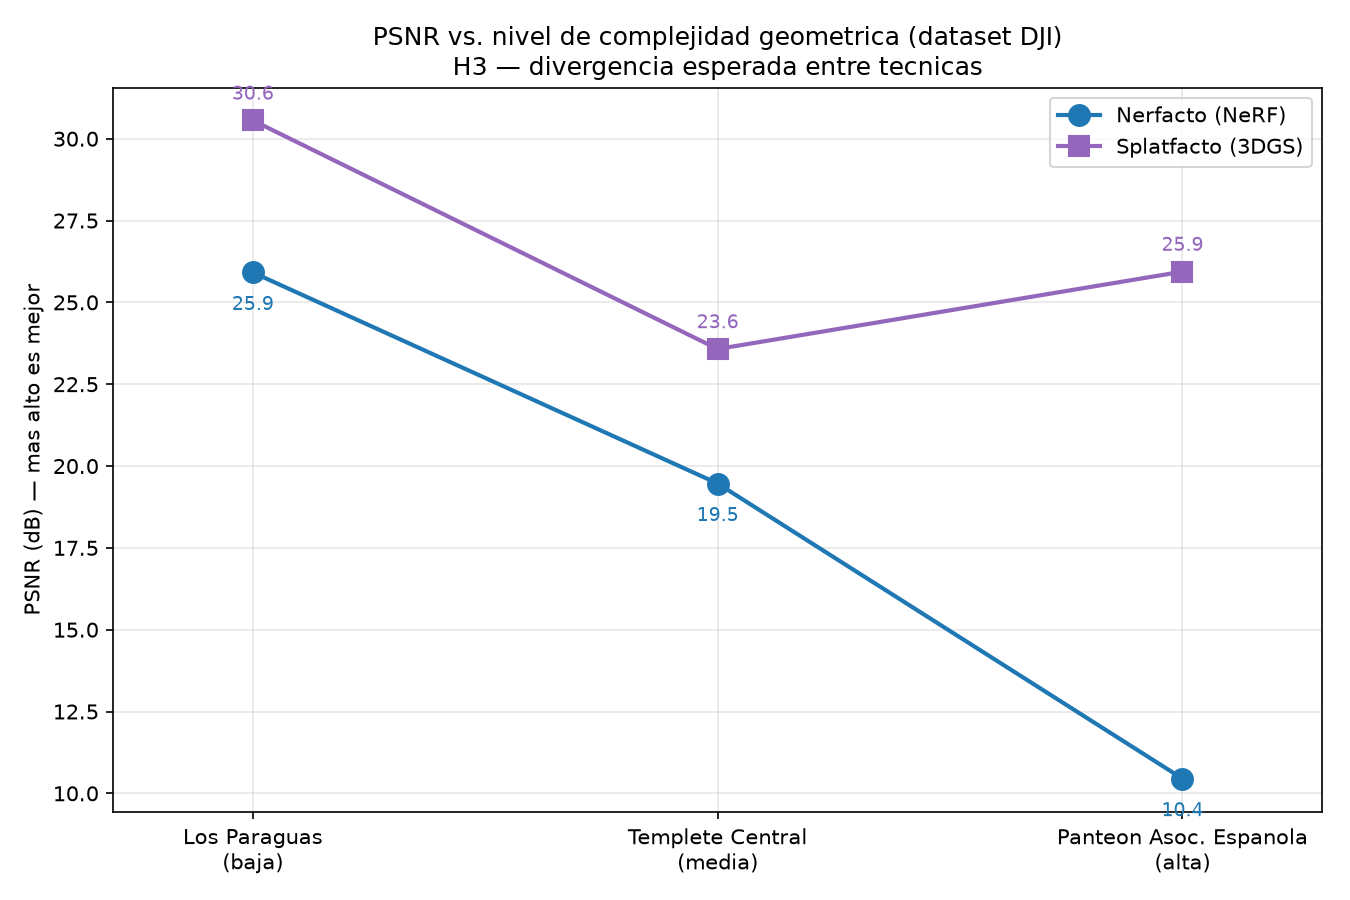
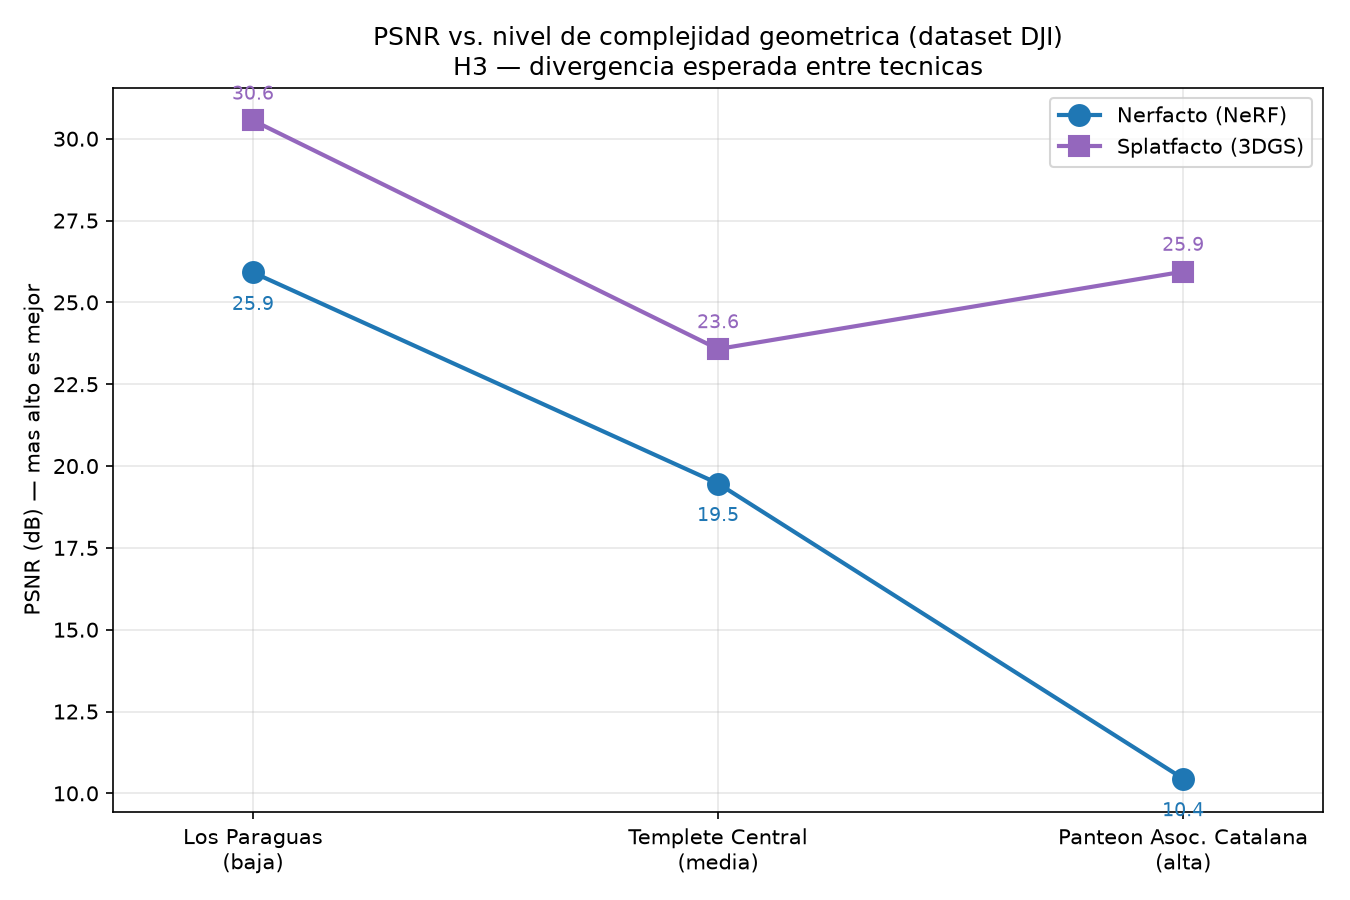
Presentacion: evidencia visual en H2/H3/H4/6.3.4 y assets normalizados
Los graficos solos no dejaban ver que habia pasado. Ahora cada hipotesis
muestra el resultado:

- H2: capturas de los dos preprocesamientos -- fotograma original vs. con las
  personas borradas (YOLOv8-seg + LaMa), y original / mascara / edificio
  aislado -- al lado del grafico de metricas.
- H3: la comparativa Foto/Nerfacto/Splatfacto del Panteon, donde se ve que
  Nerfacto degenera en floaters y Splatfacto sostiene la geometria.
- H4: los dos componentes que RealityScan reconstruyo por separado del mismo
  dataset hibrido y que nunca llegaron a alinearse.
- 6.3.4: los tres modelos del agente de IA, no solo Los Paraguas. Recortados
  al mismo encuadre desde los *_perspectiva.png de 07-modelado/.

Ademas:

- El grafico de H3 decia "Panteon Asoc. Espanola", del nombre viejo del sitio.
  Corregido en build_psnr_vs_complejidad.py y regenerado.
- Los tres wireframes de la slide de casos de estudio no cargaban: pesaban
  entre 2,5 y 5,5 MB a mas de 2000 px. Reducidos a 1000 px (11,2 MB -> 1,9 MB).
- Los 9 gif de la comparativa tenian proporciones distintas y sumaban 59 MB en
  una sola slide. Reexportados todos a 440x248 y 8 fps: los recuadros quedan
  del mismo tamano y la carpeta baja de 67 a 42 MB.

diff --git a/06-sitio-web/src/components/Presentation.jsx b/06-sitio-web/src/components/Presentation.jsx
@@ -270,7 +270,15 @@ const SLIDES = [
           </ul>
           <Source>Capítulo 5, secciones 5.3.4 y 5.3.6</Source>
         </div>
-        <div className="pz-split-media">
+        <div className="pz-split-media pz-split-media-apilada">
+          <figure>
+            <img src={`${W}preproc-distractores.jpg`} alt="Fotograma original y fotograma con las personas eliminadas" />
+            <figcaption>1 · Distractores: original arriba, con las personas borradas por YOLOv8-seg + LaMa abajo.</figcaption>
+          </figure>
+          <figure>
+            <img src={`${W}preproc-mascara.jpg`} alt="Fotograma original, máscara de entrenamiento y edificio aislado del fondo" />
+            <figcaption>2 · Fondo: original, máscara de entrenamiento y edificio aislado.</figcaption>
+          </figure>
           <img src={`${A}cap5-masking-psnr-ssim-lpips-raw-vs-masked.png`} alt="PSNR/SSIM/LPIPS raw vs. dataset con máscara" />
         </div>
       </div>
@@ -294,8 +302,12 @@ const SLIDES = [
           </ul>
           <Source>Capítulo 5, sección 5.4</Source>
         </div>
-        <div className="pz-split-media">
+        <div className="pz-split-media pz-split-media-apilada">
           <img src={`${A}cap5-07-psnr-vs-complejidad.png`} alt="PSNR vs. nivel de complejidad geométrica" />
+          <figure>
+            <img src={`${W}panteon-nerf-vs-splat.jpg`} alt="Panteón Asociación Catalana: foto original, render de Nerfacto y render de Splatfacto" />
+            <figcaption>Panteón: foto · Nerfacto · Splatfacto. Nerfacto degenera en floaters; Splatfacto sostiene la geometría.</figcaption>
+          </figure>
         </div>
       </div>
     ),
@@ -319,8 +331,15 @@ const SLIDES = [
           </ul>
           <Source>Capítulo 5, secciones 5.5.2–5.5.6</Source>
         </div>
-        <div className="pz-split-media">
+        <div className="pz-split-media pz-split-media-apilada">
           <img src={`${A}cap5-hybrid-cross-camera-matching-chart.png`} alt="Calidad de matching por tipo de par de dispositivos" />
+          <figure>
+            <div className="pz-par">
+              <img src={`${W}hibrido-componente-a.png`} alt="Primer componente reconstruido del dataset híbrido" />
+              <img src={`${W}hibrido-componente-b.png`} alt="Segundo componente reconstruido del dataset híbrido" />
+            </div>
+            <figcaption>El fallo, a la vista: del mismo dataset híbrido salen dos componentes separados que nunca llegan a alinearse.</figcaption>
+          </figure>
         </div>
       </div>
     ),
@@ -439,8 +458,17 @@ const SLIDES = [
           </ul>
           <Source>Capítulo 6, sección 6.3.4 y Tabla 6.4</Source>
         </div>
-        <div className="pz-split-media">
-          <img src={`${W}paraguas-reconstruccion-ia.png`} alt="Render del modelo reconstruido de Los Paraguas, dos cubiertas sobre columnas" />
+        <div className="pz-split-media pz-split-media-apilada">
+          {[
+            ["paraguas", "Los Paraguas"],
+            ["templete", "Templete Central"],
+            ["panteon", "Panteón Asoc. Catalana"],
+          ].map(([id, nombre]) => (
+            <figure key={id}>
+              <img src={`${W}${id}-reconstruccion-ia.png`} alt={`Modelo reconstruido por el agente de IA: ${nombre}`} />
+              <figcaption>{nombre}</figcaption>
+            </figure>
+          ))}
         </div>
       </div>
     ),

diff --git a/06-sitio-web/src/presentation.css b/06-sitio-web/src/presentation.css
@@ -578,3 +578,68 @@
   color: var(--accent);
   margin-top: 0.2rem;
 }
+
+/* Columna de media con varias piezas apiladas (grafico + ejemplos visuales).
+   Cada pieza se limita por altura de viewport en vez de repartir con flex-grow:
+   con flex-grow y sin alto definido las imagenes colapsaban a cero. */
+.pz-split-media-apilada {
+  display: flex;
+  flex-direction: column;
+  gap: 0.6rem;
+  justify-content: center;
+  overflow: hidden;
+}
+
+.pz-split-media-apilada > img,
+.pz-split-media-apilada figure {
+  margin: 0;
+  flex: 0 0 auto;
+}
+
+.pz-split-media-apilada img {
+  width: 100%;
+  height: auto;
+  max-height: 24vh;
+  object-fit: contain;
+  display: block;
+}
+
+.pz-split-media-apilada figcaption {
+  font-size: 0.66rem;
+  line-height: 1.3;
+  opacity: 0.62;
+  text-align: center;
+  margin-top: 0.22rem;
+}
+
+/* dos imagenes lado a lado dentro de una pieza apilada */
+.pz-par {
+  display: grid;
+  grid-template-columns: 1fr 1fr;
+  gap: 0.45rem;
+}
+
+.pz-par img {
+  max-height: 18vh;
+}
+
+/* Comparativa de tecnicas: los 9 recuadros, todos del mismo tamano.
+   Los gif ya se exportan a 440x248, el object-fit cubre cualquier resto. */
+.pz-render-compare img {
+  aspect-ratio: 16 / 9;
+  object-fit: cover;
+}
+
+/* la galeria de 3x3 entra justa: se ajustan separaciones y etiquetas */
+.pz-render-gallery {
+  gap: 1.1rem;
+  margin-top: 1rem;
+}
+
+.pz-render-compare-stacked {
+  gap: 0.35rem;
+}
+
+.pz-render-compare span {
+  font-size: 0.62rem;
+}

diff --git a/04-notebooks/scripts/build_psnr_vs_complejidad.py b/04-notebooks/scripts/build_psnr_vs_complejidad.py
@@ -14,7 +14,7 @@ import matplotlib.pyplot as plt
 OUT = r"C:\nerfstudio_work\thesis\00-auditoria\charts\07_psnr_vs_complejidad.png"
 
 # nivel de complejidad: 1=baja (Paraguas), 2=media (Templete), 3=alta (Panteon)
-sitios = ["Los Paraguas\n(baja)", "Templete Central\n(media)", "Panteon Asoc. Espanola\n(alta)"]
+sitios = ["Los Paraguas\n(baja)", "Templete Central\n(media)", "Panteon Asoc. Catalana\n(alta)"]
 x = [1, 2, 3]
 
 nerfacto = [25.914, 19.466, 10.449]
